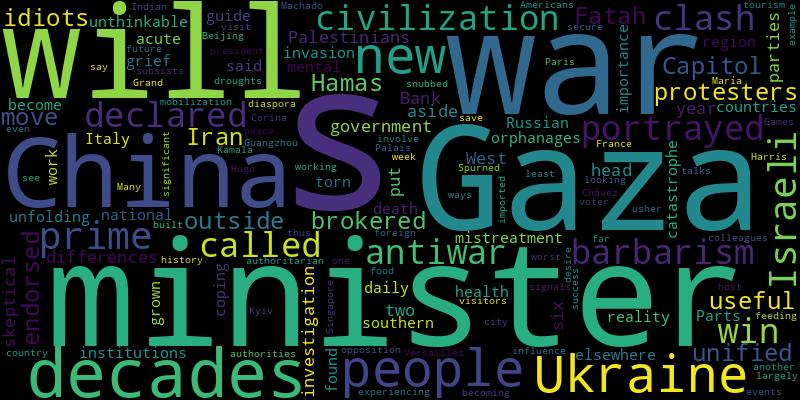
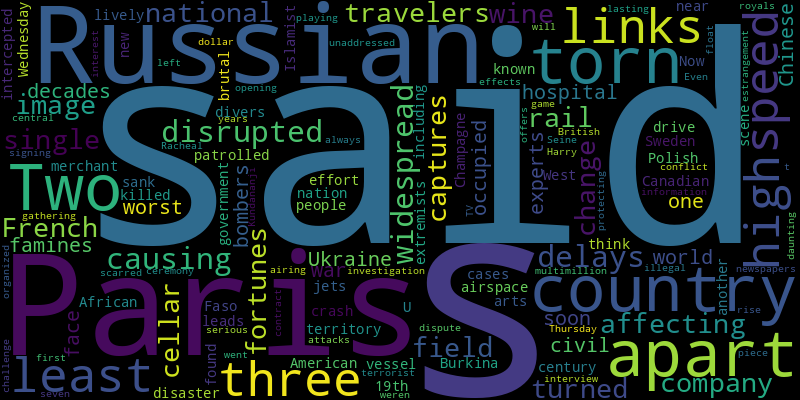
chore(bot): 👻 auto commit

diff --git a/README.md b/README.md
@@ -2,41 +2,41 @@
 Auto RSS New York Times and Generate Word Cloud
 
 ## New York Times Global News
-* The Israeli prime minister portrayed the war in Gaza as a “clash between barbarism and civilization” and declared “we will win.” He called antiwar protesters outside the Capitol “Iran’s useful idiots.”
-* In a move brokered by China, Fatah and Hamas endorsed a unified government for the West Bank and Gaza, but Palestinians are skeptical that the two parties can put aside their differences.
-* The head of a six-year investigation into mistreatment in orphanages, mental health institutions and elsewhere said it found an “unthinkable national catastrophe” unfolding over decades.
-* The work of those who guide people coping with acute grief has grown in importance in war-torn Ukraine, where death has become a daily reality since the Russian invasion.
-* Parts of southern Italy and other countries in the region are experiencing one of their worst droughts in decades. The authorities say they are working to at least save tourism.
-* The Games will usher visitors through France’s history, with events at the Grand Palais and Versailles. But, as host, Paris is also becoming a new city.
-* A visit by the foreign minister of Ukraine to Guangzhou this week signals Kyiv’s desire to involve Beijing in peace talks that China has thus far largely snubbed.
-* Spurned by the country’s authoritarian president and even her own colleagues in the opposition, María Corina Machado has built the most significant voter mobilization since Hugo Chávez.
-* Many Indian Americans see Kamala Harris as another example of the diaspora’s success and influence.
-* Singapore, which subsists on imported food, is looking to secure its future with new ways of feeding its people.
+* At least three high-speed links to Paris were disrupted, causing widespread delays affecting about 800,000 travelers, the French national rail company said.
+* A single image captures the change in fortunes for a wine cellar turned field hospital in Russian-occupied Ukraine.
+* A country torn apart by civil war could soon face one of the world’s worst famines in decades, experts said.
+* Two Russian and two Chinese bombers patrolled the airspace near American territory and were intercepted by U.S. and Canadian jets.
+* Polish divers think they have found cases of Champagne on a 19th-century merchant vessel that sank off Sweden.
+* The West African nation of Burkina Faso was once known for its lively arts scene. Now, it is a country torn apart by Islamist extremists and the government’s brutal effort to drive them out.
+* Each new disaster, including a crash that killed 18 people on Wednesday, leads to another investigation. A serious conflict of interest is always left unaddressed.
+* In a TV interview airing on Thursday, Harry said his dispute with British newspapers over illegal information gathering was a “central piece” of his estrangement from other royals.
+* Even if Paris weren’t scarred by terrorist attacks, protecting the opening ceremony, which will float down the Seine, offers a daunting challenge.
+* In seven years, Racheal Kundananji went from playing her first organized game to signing a multimillion-dollar contract. Her rise could have lasting effects.
 
 ![Global](./global.png)
 ## New York Times United States News
-* A 29-year-old intruder who smashed a glass door to enter Mayor Karen Bass’s official residence pleaded no contest to a vandalism charge.
-* A grand jury charged the officers with abandoning and endangering the children who were left holed up with a gunman at Robb Elementary School in Texas.
-* In interviews around the country, Black voters voiced enthusiasm for the reshaped campaign. They also worried about how a polarized country would see it.
-* An assailant ran over the 80-year-old man with an all-terrain vehicle, leaving him badly injured, law enforcement officials said, decrying the act of political violence.
-* In the days since President Biden ended his re-election bid and passed the torch to Vice President Kamala Harris, Donald Trump’s campaign has been crowded out of the headlines.
-* An analysis by the Council on Criminal Justice cautions that progress has been uneven, with the trend being driven by declines in a handful of big cities
-* The blazes have prompted air quality warnings in several states and Canada’s Alberta Province.
-* In a speech from the Oval Office, President Biden said it was time to “pass the torch to a new generation.” But he said nothing about his own age or capacity that led so many Democrats to desert him.
-* “The best way forward is to pass the torch to a new generation,” the president said in a rare Oval Office address. And he told voters, “History is in your hands.”
-* In an Oval Office address, President Biden praised Vice President Kamala Harris and said “it’s been the privilege of my life to serve this nation for over 50 years.”
+* The state superintendent said he would crack down on “rogue districts” opposing the mandate. The guidelines detail how the Bible should be taught by subject and grade levels from five to 12.
+* The Secret Service, which has been under scrutiny since the assassination attempt against Donald J. Trump, says it has reviewed its security plan for the convention in August.
+* Republicans are already seeking to link Vice President Kamala Harris to pandemic school closures, which local teachers’ unions pushed to extend.
+* An analysis by the Council on Criminal Justice cautions that progress has been uneven, with the trend being driven by declines in a handful of big cities.
+* One man is being held without bail after a witness saw him push a flaming vehicle down an embankment on Wednesday, the authorities said. The Park fire has burned more than 164,000 acres.
+* After years planning to face President Biden, Donald J. Trump and his team will now be campaigning against Kamala Harris. Maggie Haberman, a senior political correspondent for The New York Times, describes how Mr. Trump may try to frame his new opponent.
+* Lobbyists and lawyers are raising money for Vice President Kamala Harris, the likely Democratic presidential nominee, and assessing what her term might look like.
+* A review of JD Vance’s writings and interviews reveals the gradual, complicated process behind his conversion from anti-Trump author to pro-Trump senator.
+* Russia’s defense minister said he needed to talk to Defense Secretary Lloyd Austin about an alleged Ukrainian operation. What happened next remains murky.
+* An absence of medical records or official accounts has stirred confusion, but a Times video and trajectory analysis indicates a bullet, not debris, wounded the former president.
 
 ![US](./usnews.png)
 ## New York Times Asia News
+* The use of artificial intelligence is exploding around the world, but the technology’s language models are primarily trained in English, leaving many speakers of other languages behind.
+* The storm has already left a trail of destruction in Taiwan and the Philippines, where it killed at least 15 people.
+* The country is famous for its hospitality. But businesses have had enough of people screaming at workers or tormenting them on social media.
+* Plus, a new poll shows Kamala Harris closing in on Donald Trump.
+* Each new disaster, including a crash that killed 18 people on Wednesday, leads to another investigation. A serious conflict of interest is always left unaddressed.
+* Two Russian and two Chinese bombers patrolled the airspace near American territory and were intercepted by U.S. and Canadian jets.
+* The solar sector shows how China conducts industrial policy: It chooses industries to dominate, floods them with loans and lets companies fight it out.
+* ShadowCam, a NASA instrument aboard a South Korean spacecraft, is taking pictures of the moon where the sun doesn’t shine.
 * The birthplace of anime, manga and, of course, Pokémon, has child-friendly attractions at every turn. Here, six spots your children will thank you for visiting.
 * The coast guard rescued 16 of the vessel’s 17 crew members, but Typhoon Gaemi’s remnants were complicating efforts to contain the oil spill in Manila Bay.
-* Nine sailors were missing after a cargo ship sank near the island. The storm was forecast to make landfall in China on Thursday.
-* A top Chinese university described the conduct of a professor accused of sexual harassment as a moral failing, language feminists say downplays harm to women.
-* Defying sanctions, Russia has obtained nearly $4 billion in restricted chips since the war began in Ukraine. Many were shipped through a cluster of shell companies in Hong Kong.
-* The central bank lowered a key rate in its latest effort to steady China’s economy, as Asian stock markets followed Wall Street down.
-* Plus, disinformation floods the internet during the U.S. presidential race.
-* Many Indian Americans see Kamala Harris as another example of the diaspora’s success and influence.
-* The head of a six-year investigation into mistreatment in orphanages, mental health institutions and elsewhere said it found an “unthinkable national catastrophe” unfolding over decades.
-* The pilot of the Saurya Airlines flight, which was departing from Kathmandu, was the only survivor, officials said.
 
 ![Asian](./asian.png)
